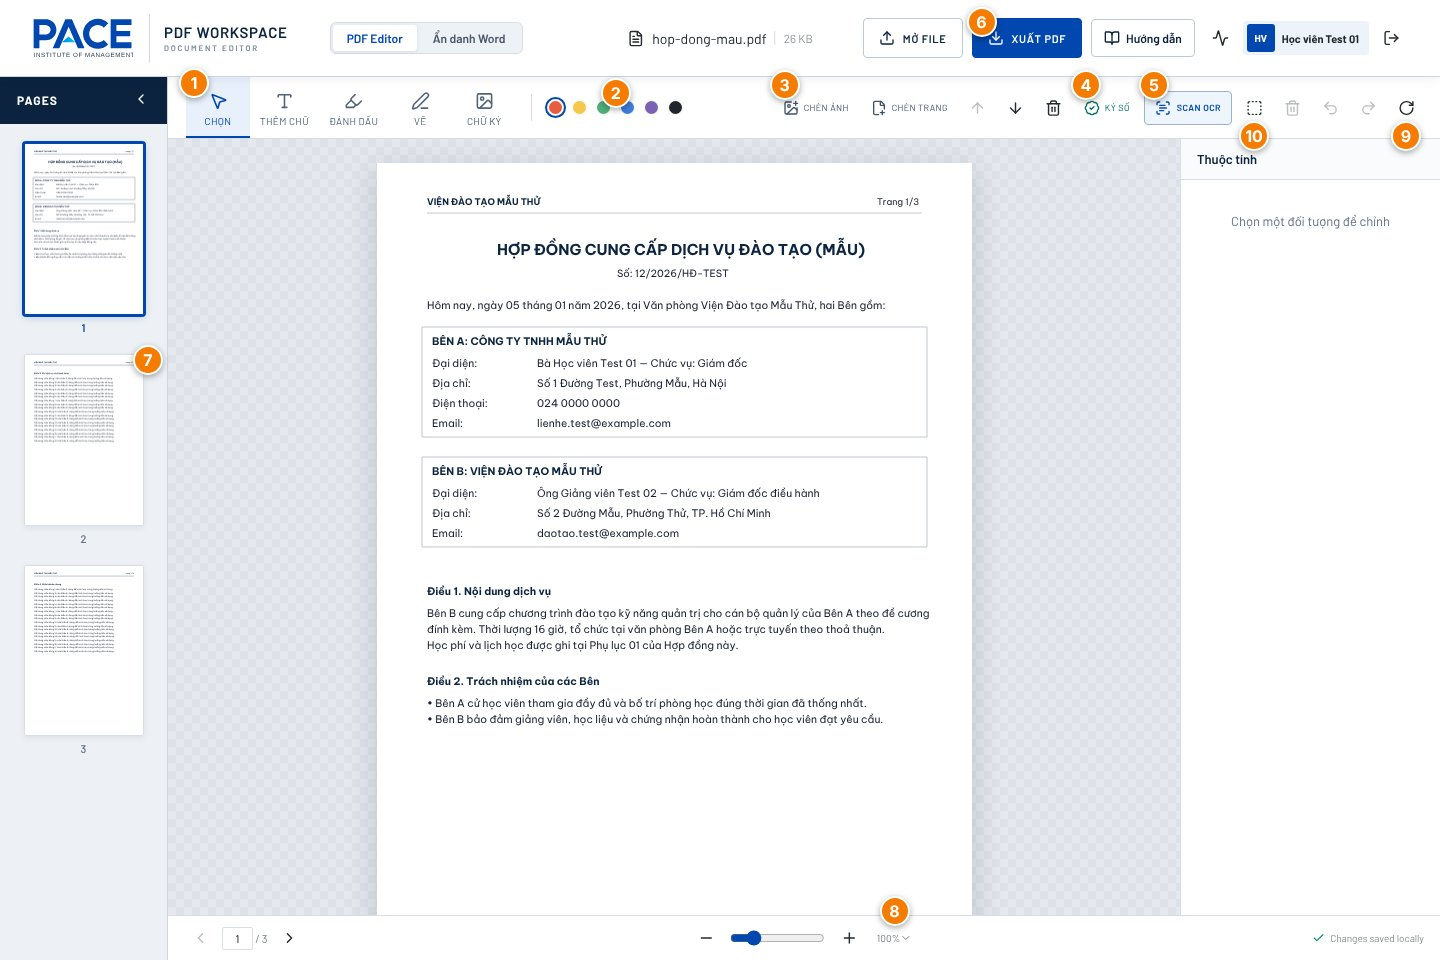
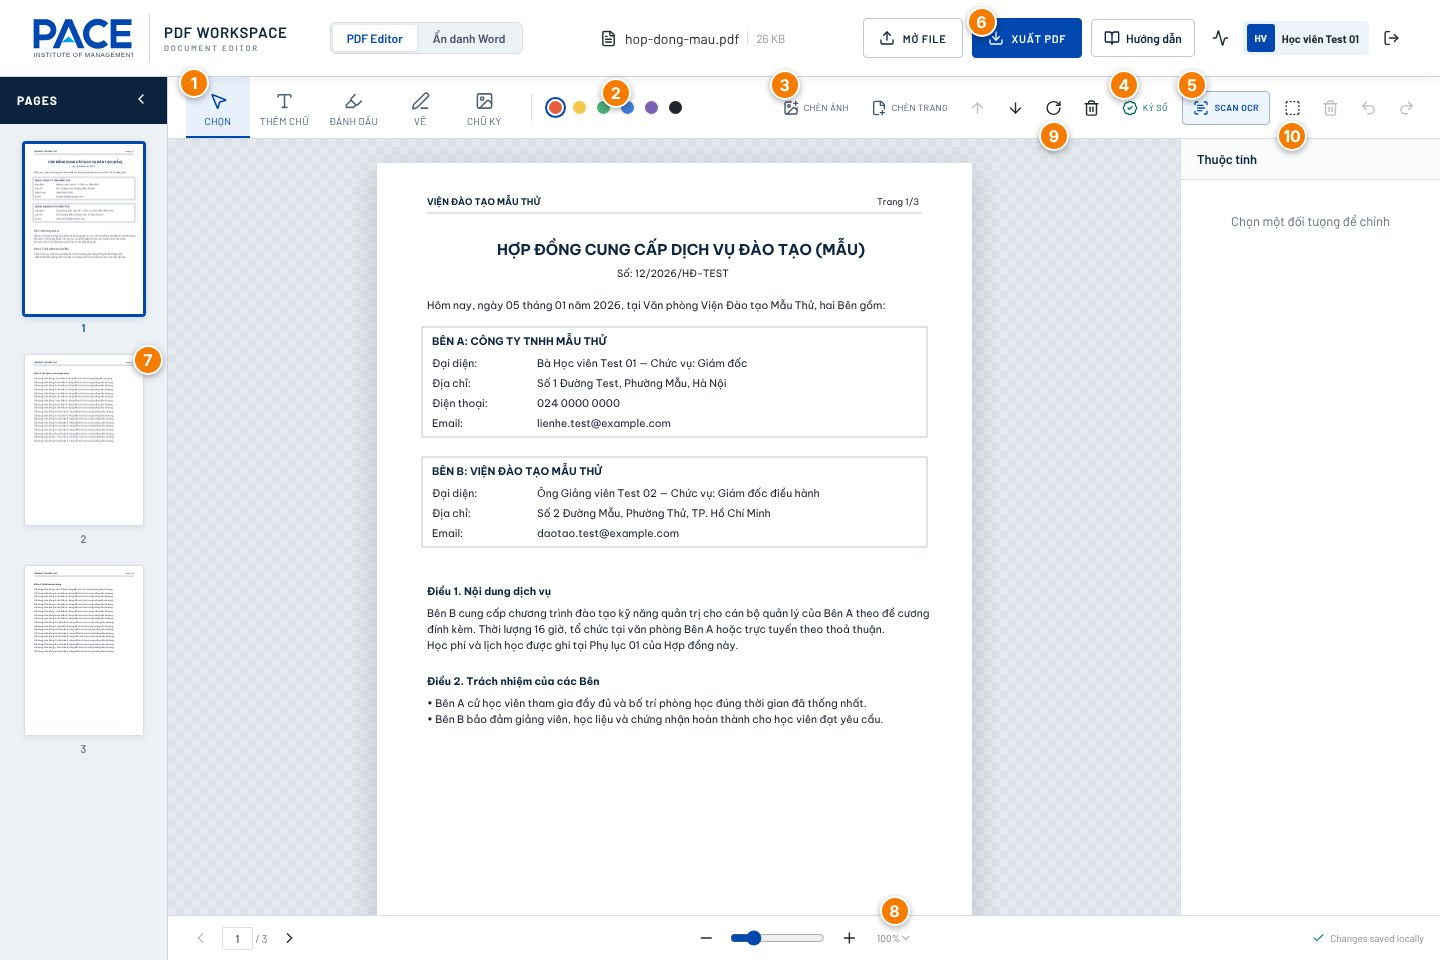
docs(guide): describe compact toolbar and overflow menu after F-15/F-15c
Re-shoot PDF screenshots 03, 04, 19, 20, 21 with the new toolbar order,
add screenshot 25 for the 'Thêm thao tác' menu, drop the obsolete
'Không thấy nút Xoay trang?' note and update legend items 9-10.

Claude-Session: https://claude.ai/code/session_01J4j3HtUKRCDDGj52C9EpEb

Changed region(s): [[0.7188, 0.0625, 0.9062, 0.1562], [0.4062, 0.0312, 0.5625, 0.0625], [0.9688, 0.125, 1.0, 0.1562]]

diff --git a/public/huong-dan/index.html b/public/huong-dan/index.html
@@ -148,10 +148,22 @@
       <li><span class="n">6</span><span><b>Xuất PDF:</b> tải về file mới có đuôi <code>-edited.pdf</code>.</span></li>
       <li><span class="n">7</span><span><b>Danh sách trang</b> (ảnh thu nhỏ thật của từng trang): bấm để cuộn tới trang đó.</span></li>
       <li><span class="n">8</span><span><b>Thu phóng</b> 25–400%: bấm vào số % để mở menu có <i>Vừa chiều rộng</i>, <i>Vừa trang</i>.</span></li>
-      <li><span class="n">9</span><span><b>Xoay trang</b> 90° (xem <i>Thao tác với trang</i> bên dưới). Cạnh đó: thùng rác xoá đối tượng đang chọn, <b>Undo/Redo</b>.</span></li>
-      <li><span class="n">10</span><span><b>Hiện khung bao:</b> hiện viền nét đứt quanh mọi dòng chữ và đối tượng trên trang. Trạng thái bật/tắt được nhớ cho lần sau.</span></li>
+      <li><span class="n">9</span><span><b>Xoay trang</b> 90°, nằm trong nhóm thao tác trang (xem <i>Thao tác với trang</i> bên dưới).</span></li>
+      <li><span class="n">10</span><span><b>Hiện khung bao:</b> hiện viền nét đứt quanh mọi dòng chữ và đối tượng trên trang. Trạng thái bật/tắt được nhớ cho lần sau. Cạnh đó: thùng rác xoá đối tượng đang chọn, <b>Undo/Redo</b>.</span></li>
     </ul>
-    <div class="note info"><b>Không thấy nút Xoay trang?</b> Trên màn hình rộng dưới khoảng 1440 px, nút ở cuối thanh công cụ có thể bị khuất. Thu nhỏ trình duyệt (<kbd>Ctrl</kbd> + <kbd>-</kbd>) hoặc dùng màn hình rộng hơn.</div>
+
+    <h3>Thanh công cụ trên màn hình nhỏ</h3>
+    <p>Ảnh trên chụp ở màn hình rộng. Khi cửa sổ hẹp hơn, thanh công cụ tự thu gọn để không nút nào bị khuất:</p>
+    <figure>
+      <a class="zoomable" href="img/25-pdf-menu-them.jpg" target="_blank" rel="noopener" title="Bấm để xem ảnh kích thước đầy đủ"><img src="img/25-pdf-menu-them.jpg" alt="Thanh công cụ thu gọn: nút chỉ còn biểu tượng và menu Thêm thao tác đang mở, được đánh số 1 đến 3" loading="lazy" width="1188" height="624"></a>
+      <figcaption>Thanh công cụ thu gọn ở màn hình rộng khoảng 1024 px, menu "Thêm thao tác" đang mở.</figcaption>
+    </figure>
+    <ul class="legend">
+      <li><span class="n">1</span><span><b>Nút thu gọn:</b> <i>Chèn ảnh</i>, <i>Chèn trang</i>, <i>Ký số</i>, <i>Scan OCR</i> chỉ còn biểu tượng. Rê chuột lên nút để xem tên.</span></li>
+      <li><span class="n">2</span><span><b>Nút <kbd>⋯</kbd> "Thêm thao tác"</b>: chỉ xuất hiện khi không đủ chỗ. Bấm để mở menu.</span></li>
+      <li><span class="n">3</span><span><b>Menu "Thêm thao tác"</b> chứa các nút không còn chỗ trên thanh, ẩn dần theo thứ tự: <i>Ký số</i>, <i>Scan OCR</i> → <i>Hiện khung bao</i> → nhóm trang (lên/xuống, <i>Xoay trang</i>, xoá trang) → <i>Chèn ảnh</i>, <i>Chèn trang</i>. Mục mờ là thao tác đang không dùng được, ví dụ <i>Di chuyển trang lên</i> khi đang ở trang đầu.</span></li>
+    </ul>
+    <p>Công cụ, màu, xoá đối tượng, Undo/Redo luôn nằm trên thanh. Menu dùng được bằng bàn phím: mũi tên lên/xuống để chọn, <kbd>Enter</kbd> để chạy, <kbd>Esc</kbd> để đóng. Trên máy tính bảng và điện thoại, thanh công cụ cuộn ngang như trước.</p>
 
     <h3>Xem tài liệu</h3>
     <figure>
